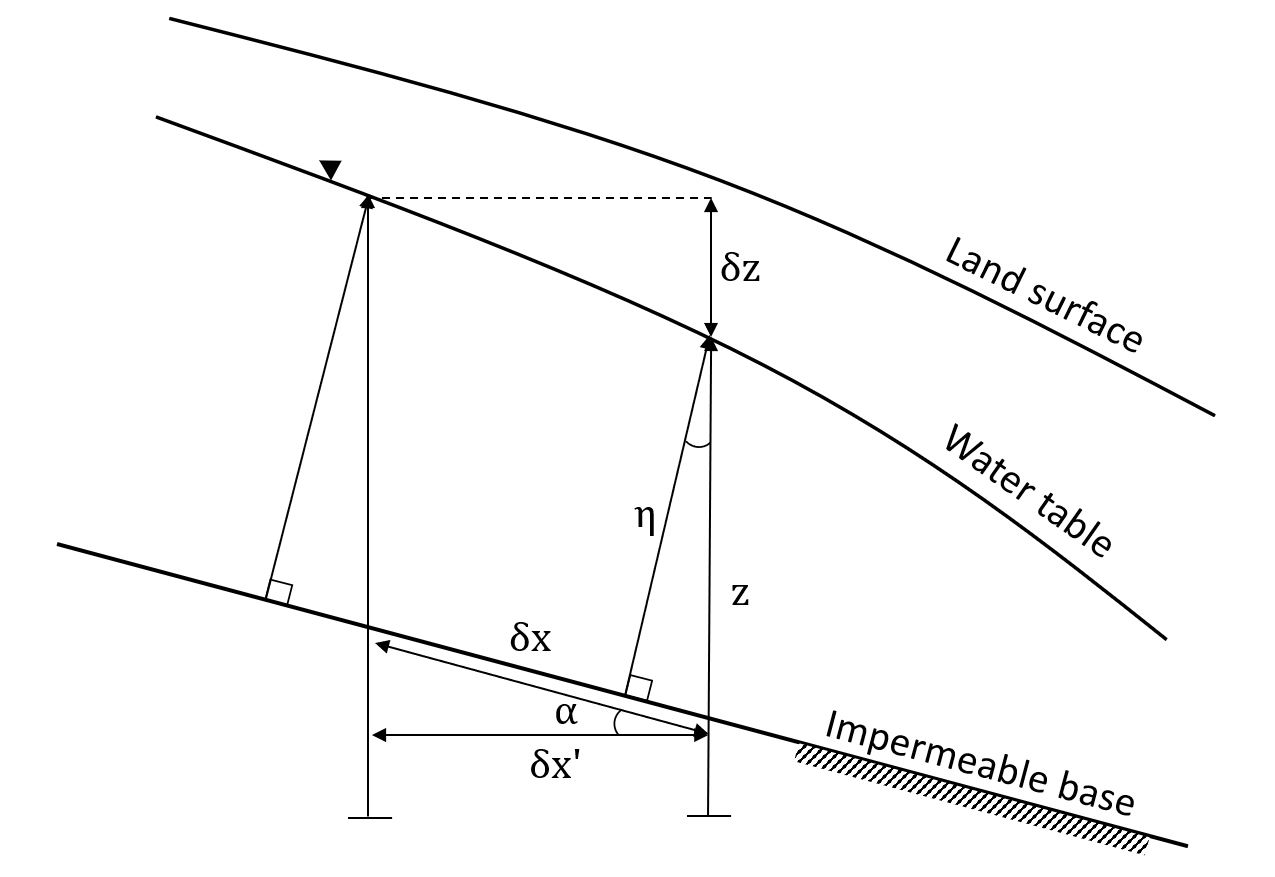
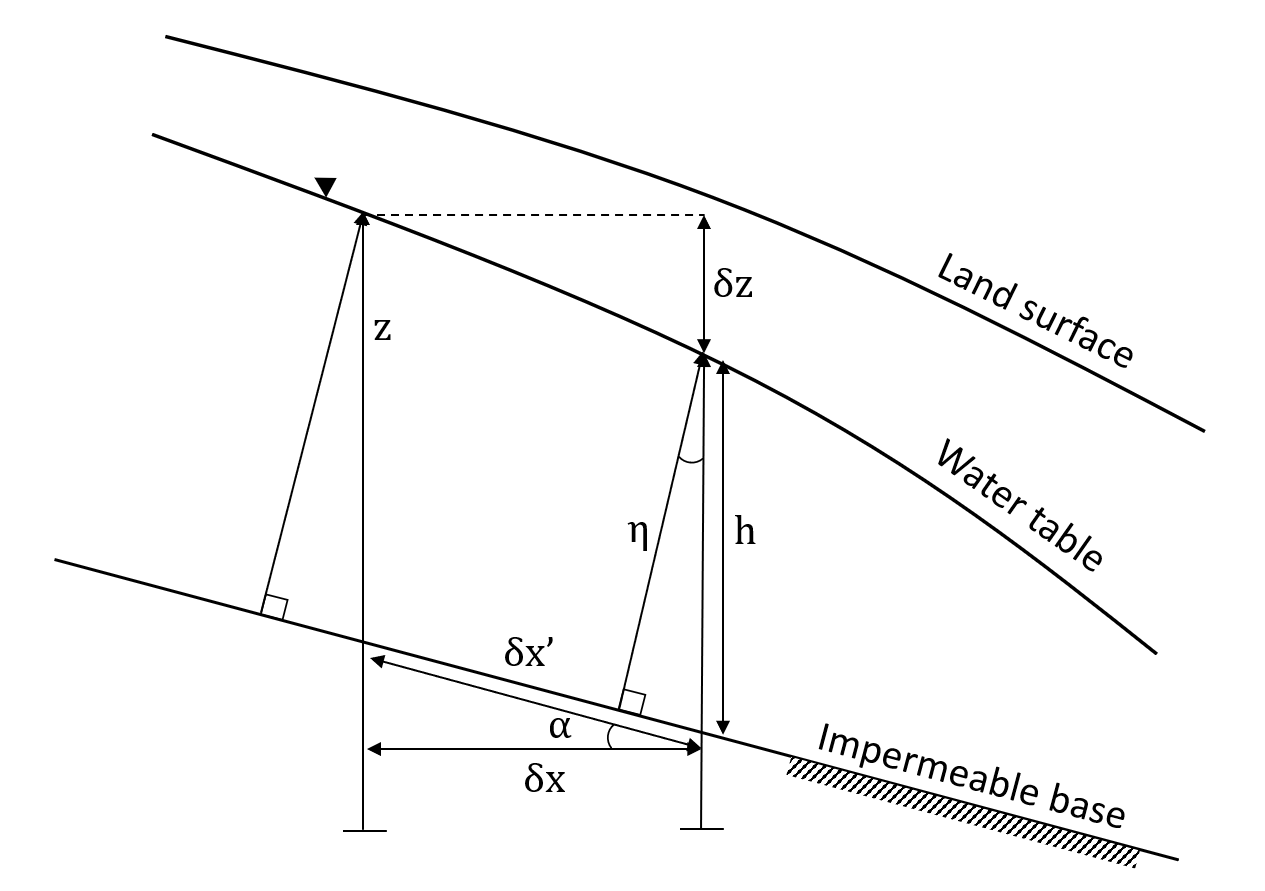
Update gdp documentation

diff --git a/docs/dupuit_theory.rst b/docs/dupuit_theory.rst
@@ -46,42 +46,59 @@ two additional fluxes that affect aquifer storage: groundwater return
 flow to the surface, and recharge from precipitation. Implementations of
 the Dupuit-Forcheimer model often encounter numerical instabilities as
 the water table intersects the surface. To alleviate this problem, we
-use the regularization approach introduced by
-Marcais et al. (2017) which smooths the transition
-between surface and subsurface flow ([1]_).
+use the regularization approach introduced by Marcais et al. (2017)
+which smooths the transition between surface and subsurface flow ([1]_).
 
 .. figure:: ./images/water_table_schematic.png
-   :alt: Schematic of aquifer thickness :math:`\eta` and water table
-   elevation :math:`z`.
+   :alt: Schematic of aquifer thickness :math:`\eta`, water table
+   elevation :math:`z`, and vertical thickness :math:`h`.
    :align: center
    :width: 4in
 
-   Schematic of aquifer thickness :math:`\eta` and water table elevation
-   :math:`z`.
+   Schematic of aquifer thickness :math:`\eta`, water table
+   elevation :math:`z`, and vertical thickness :math:`h`.
 
-In order to treat a sloping aquifer base, we recast the problem in terms
-of evolving aquifer thickness normal to the aquifer base :math:`\eta`.
-Combining all of these elements together, we arrive at the governing
-equations:
+When the aquifer base is sloping, the governing equations must be adjusted.
+Childs (1971) provides the governing equation for the groundwater specific
+discharge as:
+
+.. math:: q_x' = k \eta \frac{\partial z}{\partial x'}
+
+where :math:`x'` is the coordinate parallel to the impermeable base, and :math:`\eta`
+is the aquifer thickness perpendicular to the impermeable base ([2]_). The complete governing
+equations in the bed-normal reference frame :math:`(x',y')` are:
+
+\begin{aligned}
+n \frac{\partial \eta}{\partial t} &= f - q_s - \nabla' \cdot q \\
+q &= -K_{sat} \eta \big( \nabla' z ) \\
+q_s &= \mathcal{G}_r \bigg( \frac{\eta}{d} \bigg) \mathcal{R} \big(-\nabla' \cdot q + f \big) \\\end{aligned}
+
+where :math:`q_s` is surface runoff per unit area, :math:`f` is the
+recharge per unit area, :math:`q` is groundwater flux per unit width,
+:math:`\alpha` is the slope angle of aquifer base, and :math:`d'` is the
+permeable thickness normal to the aquifer base. Here the gradient operator
+:math:`\nabla'` and divergence operator :math:`\nabla' \cdot` are calculated
+with respect to the bed-normal coordinate system.
+
+
+To recast the problem in terms of the horizontal coordinate system used by landlab,
+we make the substitutions :math:`\eta = h \cos(\alpha)`, :math:`x = x' \cos(\alpha)`,
+and :math:`y = y' \cos(\alpha)`. In the horizontal coordinate system :math:`(x,y)`, the
+governing equations are:
 
 .. math::
 
    \begin{aligned}
-   n \frac{\partial \eta}{\partial t} &= - q_s - \nabla \cdot q + f \\
-   q &= -K_{sat} \eta \big( \nabla z ) \\
-   q_s &= \mathcal{G}_r \bigg( \frac{\eta}{d} \bigg) \mathcal{R} \big(-\nabla \cdot q + f \big) \\\end{aligned}
+   n \cos(\alpha) \frac{\partial h}{\partial t} &= f - q_s - \cos(\alpha) \nabla \cdot q \\
+   q &= -K_{sat} \cos^2(\alpha) h \big( \nabla z ) \\
+   q_s &= \mathcal{G}_r \bigg( \frac{h}{d} \bigg) \mathcal{R} \big(f - \cos(\alpha) \nabla \cdot q \big) \\\end{aligned}
 
-where :math:`q_s` is surface runoff per unit area, :math:`f` is the
-recharge per unit area, :math:`q` is groundwater flux per unit width,
-:math:`\alpha` is the slope angle of aquifer base, and :math:`d` is the
-permeable thickness normal to the aquifer base. The hydraulic gradient
-:math:`\nabla z` is calculated normal relative to the aquifer base, that
-is,
-:math:`\nabla z = \delta z/ \delta x = \cos(\alpha) \, \delta z/ \delta x'`.
-Note that the surface runoff is the sum of both groundwater return flow
-and precipitation on saturated area. The expression for :math:`q_s`
-utilizes two regularization functions :math:`\mathcal{G}_r` and
-:math:`\mathcal{R}`:
+where :math:`d` is the vertical regolith thickness, and the gradient operator
+:math:`\nabla` and divergence operator :math:`\nabla \cdot` are calculated with
+respect to the horizontal coordinate system :math:`(x,y)`. Note that the surface runoff
+is the sum of both groundwater return flow and precipitation on saturated area.
+The expression for :math:`q_s` utilizes two regularization functions
+:math:`\mathcal{G}_r` and :math:`\mathcal{R}`: ([1]_)
 
 .. math:: \mathcal{G}_r(r,u) = \exp \bigg( - \frac{1-u}{r} \bigg)
 
@@ -115,7 +132,7 @@ governing equations. In this method, gradients are calculated at links
 (at volume centers). The governing equation with timestep
 :math:`\Delta t` is:
 
-.. math:: n \bigg( \frac{\eta^{t+\Delta t} - \eta^t}{\Delta t} \bigg) = -q_s^t - \nabla \cdot q^t + f^t
+.. math:: n \cos(\alpha_i) \bigg( \frac{h^{t+\Delta t} - h^t}{\Delta t} \bigg) = -q_s^t - \cos(\alpha_i) \nabla \cdot q^t + f^t
 
 Below is a description of the components needed to calculate the right
 side of this equation. To calculate the groundwater flux :math:`q`, the
@@ -131,10 +148,11 @@ calculated from the aquifer base elevation :math:`b`:
 
 where the subscripts :math:`i` and :math:`j` indicate the nodes at the
 head and tail of the link respectively, and :math:`L_{ij}` is the length
-of the link. The gradient :math:`\nabla z` is calculated on link
-:math:`k` relative to the aquifer base as:
+of the link. The angle :math:`\alpha_i` is the maximum of the angles :math:`\alpha_{ij}`
+for all :math:`j` connecting to :math:`i`. The gradient :math:`\nabla z` is
+calculated on link :math:`ij` as:
 
-.. math:: \big( \nabla z \big)_{ij} = \frac{z_{i} - z_{j}}{L_{ij}} \cos(\alpha_{ij})
+.. math:: \big( \nabla z \big)_{ij} = \frac{z_{i} - z_{j}}{L_{ij}}
 
 Flux divergence is calculated by summing the fluxes into an out of the
 links that connect to a node. The divergence of the groundwater flux is:
@@ -154,3 +172,4 @@ References:
 
 .. [1] Marçais, J., de Dreuzy, J. R. & Erhel, J. Dynamic coupling of subsurface and seepage flows solved within a regularized partition formulation.
         Advances in Water Resources 109, 94–105 (2017).
+.. [2] Childs, E. C. Drainage of Groundwater Resting on a Sloping Bed. Water Resources Research 7, 1256–1263 (1971).
